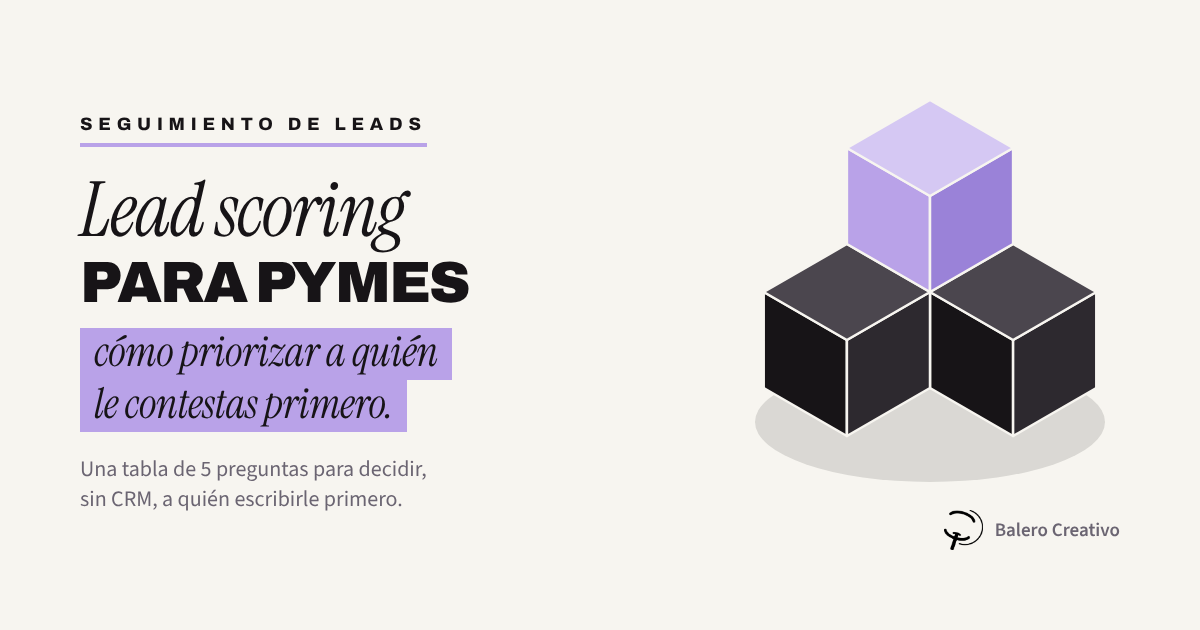
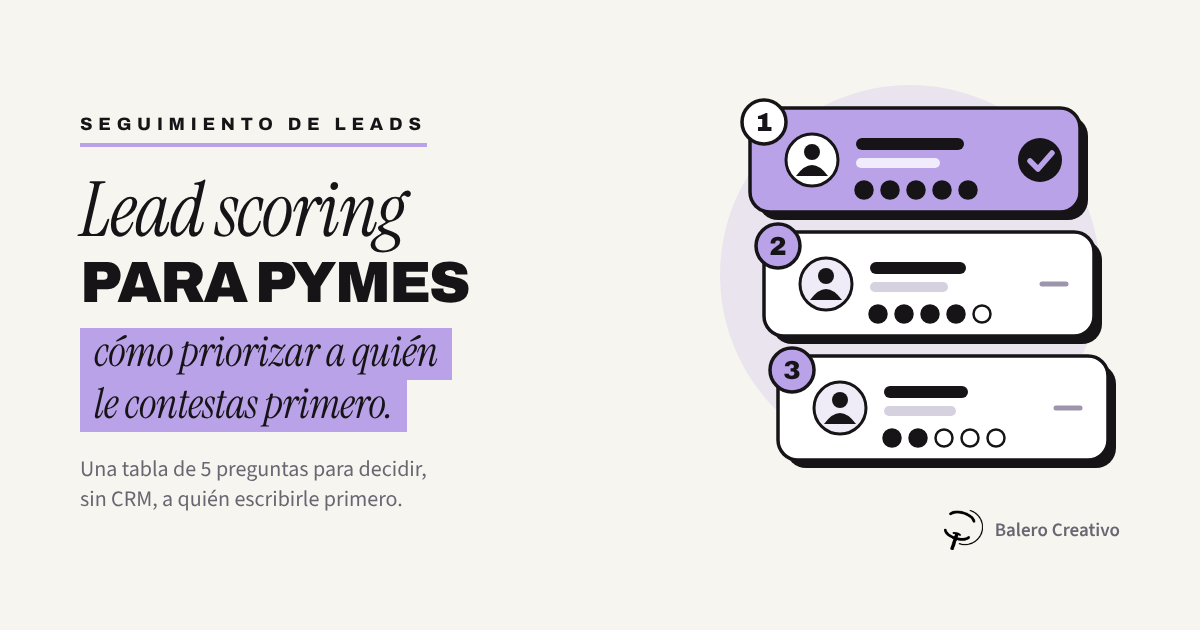
Lead scoring image: replace cubes with ranked lead cards
Claude-Session: https://claude.ai/code/session_01NTbbmrkatfc9dT5fY1rn6A

Changed region(s): [[0.6167, 0.1508, 0.9558, 0.7841]]

diff --git a/blog-images/lead-scoring-pymes-1200x630.html b/blog-images/lead-scoring-pymes-1200x630.html
@@ -26,7 +26,7 @@ h1 .hl span+span{margin-top:4px}
     <h1><span class="a">Lead scoring</span><span class="b">para pymes</span><span class="hl"><span>cómo priorizar a quién</span><br><span>le contestas primero.</span></span></h1>
     <p class="sub">Una tabla de 5 preguntas para decidir, sin CRM, a quién escribirle primero.</p>
   </div>
-  <svg class="blocks" viewBox="0 0 1200 630" width="1200" height="630" xmlns="http://www.w3.org/2000/svg"><ellipse cx="930" cy="422" rx="175" ry="60" fill="#171417" opacity=".13"/><g transform="translate(930.0 340.0)"><polygon points="-83.1,-96.0 0.0,-48.0 0.0,48.0 -83.1,0.0" fill="#171417" stroke="#F7F5F0" stroke-width="2.5" stroke-linejoin="round"/><polygon points="83.1,-96.0 0.0,-48.0 0.0,48.0 83.1,0.0" fill="#2D292F" stroke="#F7F5F0" stroke-width="2.5" stroke-linejoin="round"/><polygon points="0.0,-144.0 83.1,-96.0 0.0,-48.0 -83.1,-96.0" fill="#4B464E" stroke="#F7F5F0" stroke-width="2.5" stroke-linejoin="round"/><polygon points="0.0,-48.0 83.1,0.0 83.1,96.0 0.0,48.0" fill="#171417" stroke="#F7F5F0" stroke-width="2.5" stroke-linejoin="round"/><polygon points="166.3,-48.0 83.1,0.0 83.1,96.0 166.3,48.0" fill="#2D292F" stroke="#F7F5F0" stroke-width="2.5" stroke-linejoin="round"/><polygon points="83.1,-96.0 166.3,-48.0 83.1,0.0 0.0,-48.0" fill="#4B464E" stroke="#F7F5F0" stroke-width="2.5" stroke-linejoin="round"/><polygon points="-166.3,-48.0 -83.1,0.0 -83.1,96.0 -166.3,48.0" fill="#171417" stroke="#F7F5F0" stroke-width="2.5" stroke-linejoin="round"/><polygon points="0.0,-48.0 -83.1,0.0 -83.1,96.0 0.0,48.0" fill="#2D292F" stroke="#F7F5F0" stroke-width="2.5" stroke-linejoin="round"/><polygon points="-83.1,-96.0 0.0,-48.0 -83.1,0.0 -166.3,-48.0" fill="#4B464E" stroke="#F7F5F0" stroke-width="2.5" stroke-linejoin="round"/><polygon points="-83.1,-192.0 0.0,-144.0 0.0,-48.0 -83.1,-96.0" fill="#B9A2E8" stroke="#F7F5F0" stroke-width="2.5" stroke-linejoin="round"/><polygon points="83.1,-192.0 0.0,-144.0 0.0,-48.0 83.1,-96.0" fill="#9A82D8" stroke="#F7F5F0" stroke-width="2.5" stroke-linejoin="round"/><polygon points="0.0,-240.0 83.1,-192.0 0.0,-144.0 -83.1,-192.0" fill="#D5C8F3" stroke="#F7F5F0" stroke-width="2.5" stroke-linejoin="round"/></g></svg>
+  <svg class="blocks" viewBox="0 0 1200 630" width="1200" height="630" xmlns="http://www.w3.org/2000/svg"><g transform="translate(-20 0)"><circle cx="930" cy="275" r="190" fill="#B9A2E8" opacity=".2"/><rect x="778" y="116" width="330" height="104" rx="20" fill="#171417"/><rect x="770" y="108" width="330" height="104" rx="20" fill="#B9A2E8" stroke="#171417" stroke-width="3.5"/><circle cx="784" cy="122" r="22" fill="#FFFFFF" stroke="#171417" stroke-width="3.5"/><text x="784" y="131" text-anchor="middle" font-family="Archivo,sans-serif" font-weight="900" font-size="26" fill="#171417">1</text><circle cx="832" cy="160" r="26" fill="#FFFFFF" stroke="#171417" stroke-width="3"/><circle cx="832" cy="152" r="8" fill="#171417"/><path d="M816 176 q16 -22 32 0" fill="#171417"/><rect x="876" y="138" width="108" height="12" rx="6" fill="#171417"/><rect x="876" y="158" width="84" height="10" rx="5" fill="#FFFFFF" opacity="0.8"/><circle cx="884" cy="190" r="8.5" fill="#171417" stroke="#171417" stroke-width="2.5"/><circle cx="910" cy="190" r="8.5" fill="#171417" stroke="#171417" stroke-width="2.5"/><circle cx="936" cy="190" r="8.5" fill="#171417" stroke="#171417" stroke-width="2.5"/><circle cx="962" cy="190" r="8.5" fill="#171417" stroke="#171417" stroke-width="2.5"/><circle cx="988" cy="190" r="8.5" fill="#171417" stroke="#171417" stroke-width="2.5"/><circle cx="1060" cy="160" r="22" fill="#171417"/><path d="M1050 161 l8 8 l14 -16" fill="none" stroke="#B9A2E8" stroke-width="5.5" stroke-linecap="round" stroke-linejoin="round"/><rect x="792" y="240" width="330" height="104" rx="20" fill="#171417"/><rect x="784" y="232" width="330" height="104" rx="20" fill="#FFFFFF" stroke="#171417" stroke-width="3.5"/><circle cx="798" cy="246" r="22" fill="#B9A2E8" stroke="#171417" stroke-width="3.5"/><text x="798" y="255" text-anchor="middle" font-family="Archivo,sans-serif" font-weight="900" font-size="26" fill="#171417">2</text><circle cx="846" cy="284" r="26" fill="#F0ECF7" stroke="#171417" stroke-width="3"/><circle cx="846" cy="276" r="8" fill="#171417"/><path d="M830 300 q16 -22 32 0" fill="#171417"/><rect x="890" y="262" width="96" height="12" rx="6" fill="#171417"/><rect x="890" y="282" width="78" height="10" rx="5" fill="#D6D1DE" opacity="1"/><circle cx="898" cy="314" r="8.5" fill="#171417" stroke="#171417" stroke-width="2.5"/><circle cx="924" cy="314" r="8.5" fill="#171417" stroke="#171417" stroke-width="2.5"/><circle cx="950" cy="314" r="8.5" fill="#171417" stroke="#171417" stroke-width="2.5"/><circle cx="976" cy="314" r="8.5" fill="#171417" stroke="#171417" stroke-width="2.5"/><circle cx="1002" cy="314" r="8.5" fill="none" stroke="#171417" stroke-width="2.5"/><path d="M1062 284 h24" stroke="#9C95AB" stroke-width="5" stroke-linecap="round"/><rect x="806" y="364" width="330" height="104" rx="20" fill="#171417"/><rect x="798" y="356" width="330" height="104" rx="20" fill="#FFFFFF" stroke="#171417" stroke-width="3.5"/><circle cx="812" cy="370" r="22" fill="#B9A2E8" stroke="#171417" stroke-width="3.5"/><text x="812" y="379" text-anchor="middle" font-family="Archivo,sans-serif" font-weight="900" font-size="26" fill="#171417">3</text><circle cx="860" cy="408" r="26" fill="#F0ECF7" stroke="#171417" stroke-width="3"/><circle cx="860" cy="400" r="8" fill="#171417"/><path d="M844 424 q16 -22 32 0" fill="#171417"/><rect x="904" y="386" width="84" height="12" rx="6" fill="#171417"/><rect x="904" y="406" width="72" height="10" rx="5" fill="#D6D1DE" opacity="1"/><circle cx="912" cy="438" r="8.5" fill="#171417" stroke="#171417" stroke-width="2.5"/><circle cx="938" cy="438" r="8.5" fill="#171417" stroke="#171417" stroke-width="2.5"/><circle cx="964" cy="438" r="8.5" fill="none" stroke="#171417" stroke-width="2.5"/><circle cx="990" cy="438" r="8.5" fill="none" stroke="#171417" stroke-width="2.5"/><circle cx="1016" cy="438" r="8.5" fill="none" stroke="#171417" stroke-width="2.5"/><path d="M1076 408 h24" stroke="#9C95AB" stroke-width="5" stroke-linecap="round"/></g></svg>
   <div class="brand"><img src="assets/balero-isotipo-negro.png" alt=""><span>Balero Creativo</span></div>
 </div>
 </body></html>
